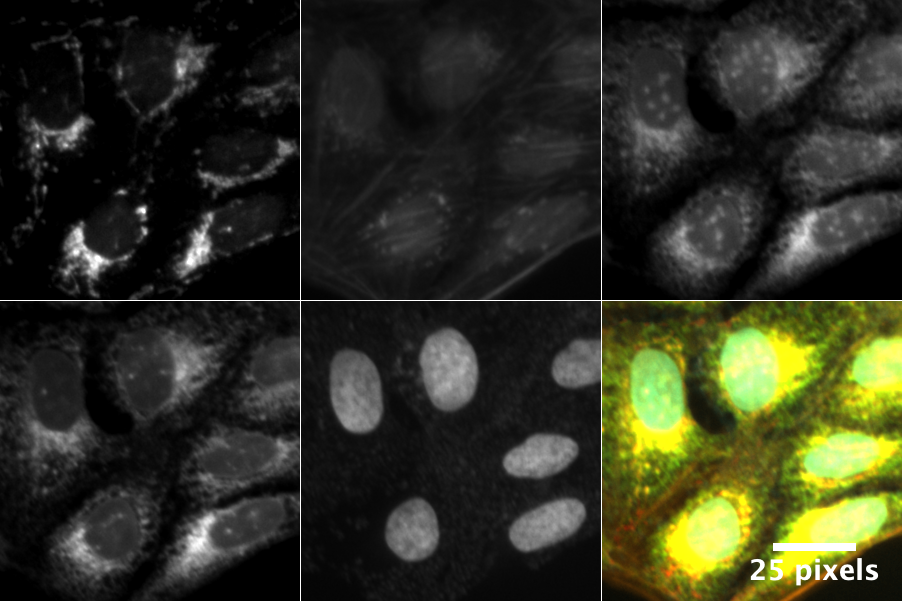
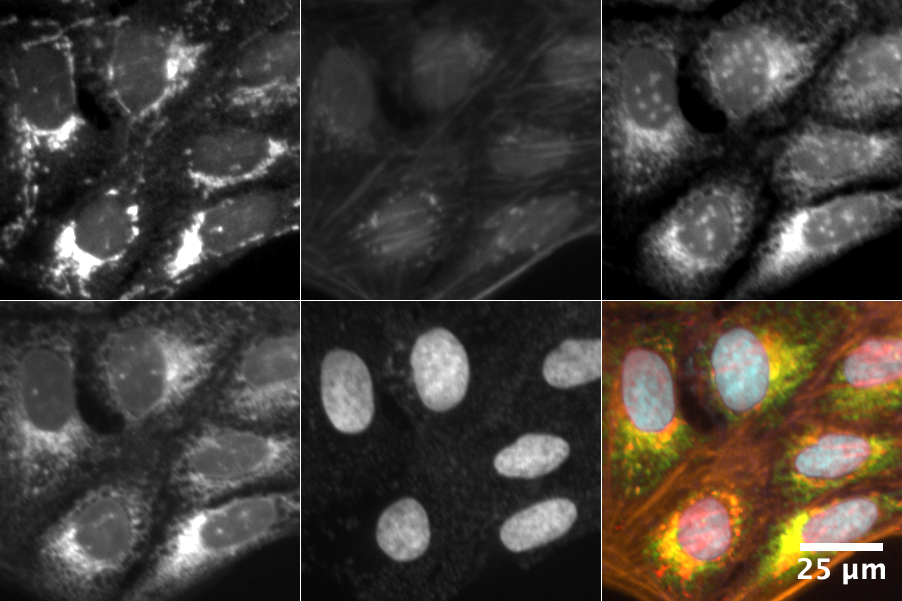
Fix scale bars, use Composite Max

diff --git a/notebooks/FijiNiceImageScript.py b/notebooks/FijiNiceImageScript.py
@@ -114,6 +114,7 @@ else:
         IJ.run("Copy")
         WindowManager.setTempCurrentImage(WindowManager.getImage("tempmont"))
         im2=IJ.getImage()
+        im2.setCalibration(calibration)
         im2.setSlice(6)
         IJ.run("Paste")
         IJ.run("Properties...", "channels=1 slices=6 frames=1 pixel_width="+pixel_size+" pixel_height="+pixel_size+" voxel_depth=1")
@@ -128,6 +129,7 @@ else:
         IJ.run("Copy")
         WindowManager.setTempCurrentImage(WindowManager.getImage("tempmont_gray"))
         im2=IJ.getImage()
+        im2.setCalibration(calibration)
         im2.setSlice(6)
         IJ.run("Paste")
         IJ.run("Properties...", "channels=1 slices=6 frames=1 pixel_width="+pixel_size+" pixel_height="+pixel_size+" voxel_depth=1")
